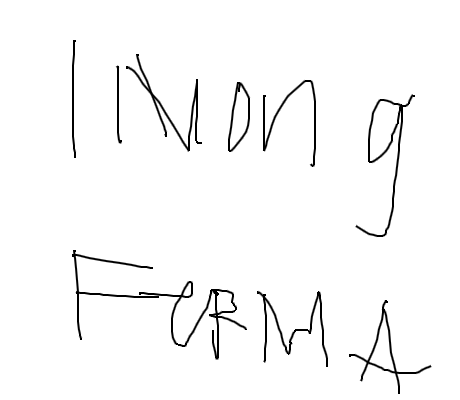
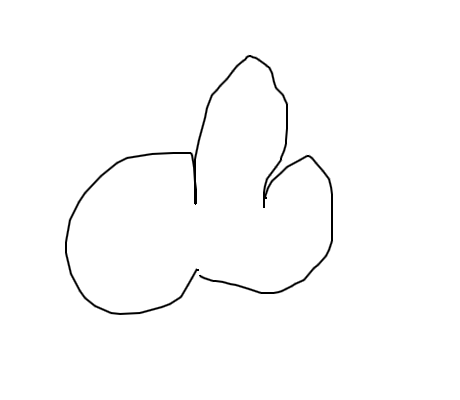
f

diff --git a/index.php b/index.php
@@ -143,20 +143,20 @@ $role = $_SESSION['role'];
     let newAppointment = {};
     let isRescheduling = false;
     let bHours = [{
-        // days of week. an array of zero-based day of week integers (0=Sunday)
-        startTime: '08:00', // 8 am
-        endTime: '12:00', // 12 pm
+        startTime: '08:00',
+        endTime: '12:00',
       },
       {
-        startTime: '13:00', // 1 pm
-        endTime: '20:00', // 8 pm
+        startTime: '13:00',
+        endTime: '20:00',
       }
     ]
 
     document.addEventListener("DOMContentLoaded", async function() {
       if (role === 'user') {
         isAppointedData = await isAppointedUser()
-        if (isAppointedData.isValidated != 1) {
+        isValidated = await isValidated()
+        if (isValidated[0].isValidated == 0) {
           window.location.href = `http://localhost/salologan/customer_form.php?id=${user_id}`
         }
         if (isAppointedData.length > 0) {
@@ -824,6 +824,11 @@ $role = $_SESSION['role'];
       return hours + minutes;
     }
 
+    async function isValidated() {
+      const response = await fetch(`http://localhost:5000/getCustomerDetails?user_id=${user_id}`);
+      const data = await response.json();
+      return data;
+    }
     async function isAppointedUser() {
       const response = await fetch(`http://localhost:5000/isAppointed?user_id=${user_id}`);
       const data = await response.json();

diff --git a/app.py b/app.py
@@ -237,8 +237,8 @@ def isAppointed():
 def getCustomerDetails():
     conn = mysql.connector.connect(**db_config)
     cursor = conn.cursor(dictionary=True)
-
-    user_id = request.args.get("id")
+    user_id = request.args.get("user_id")
+    print(user_id)
     query = "select isValidated from customer_detail where user = %s"
     cursor.execute(query, (user_id,))
     result = cursor.fetchall()
@@ -443,6 +443,7 @@ def getDentist():
     cursor.close()
     conn.close()
     return result
+
 
 @app.route("/getPayments", methods=["GET"])
 def getPayments():

diff --git a/api/sendotp.php b/api/sendotp.php
@@ -8,14 +8,12 @@ $numbers = '0123456789';
 $sender = 'From: [email redacted]';
 
 
-
-
 for ($i = 1; $i <= 6; $i++) {
     $body .= $numbers[random_int(0, strlen($numbers) - 1)];
 }
 
 if (mail($receiver, $subject, $body, $sender)) {
-    $_SESSION['otp'] = $otp;
+    $_SESSION['otp'] = $body;
     header('location:../otp.php?response=Otp sent');
     exit();
 } else {